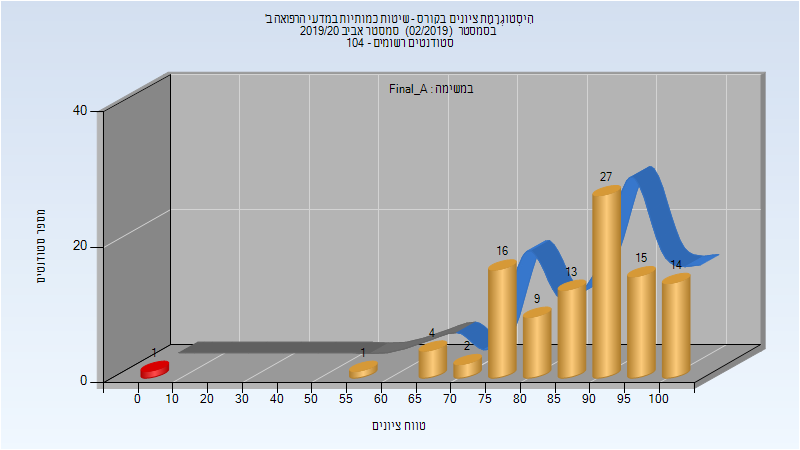
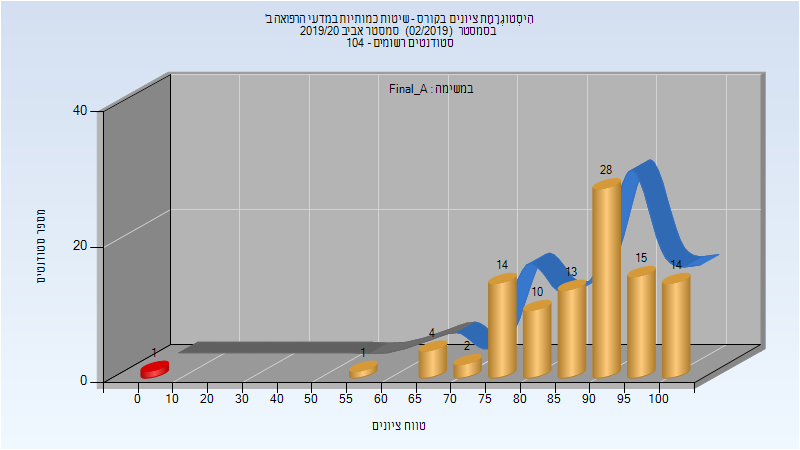
Deploy michael-maltsev/technion-histograms to github.com/michael-maltsev/technion-histograms.git:gh-pages

Changed region(s): [[0.5938, 0.5289, 0.7188, 0.7156], [0.7188, 0.3422, 0.8438, 0.4667], [0.7188, 0.6222, 0.75, 0.6533]]

diff --git a/274166/index.html b/274166/index.html
@@ -202,7 +202,7 @@
 <td>99</td>
 <td>0</td>
 <td>100</td>
-<td>87.294</td>
+<td>87.343</td>
 <td>90</td>
 </tr>
 </tbody>

diff --git a/274166/README.md b/274166/README.md
@@ -57,5 +57,5 @@
 
 | סטודנטים | עברו/נכשלו | אחוז עוברים | ציון מינימלי | ציון מקסימלי | ממוצע | חציון |
 | ---- | ---- | ---- | ---- | ---- | ---- | ---- |
-| 102 | 101/1 | 99 | 0 | 100 | 87.294 | 90 |
+| 102 | 101/1 | 99 | 0 | 100 | 87.343 | 90 |
 
